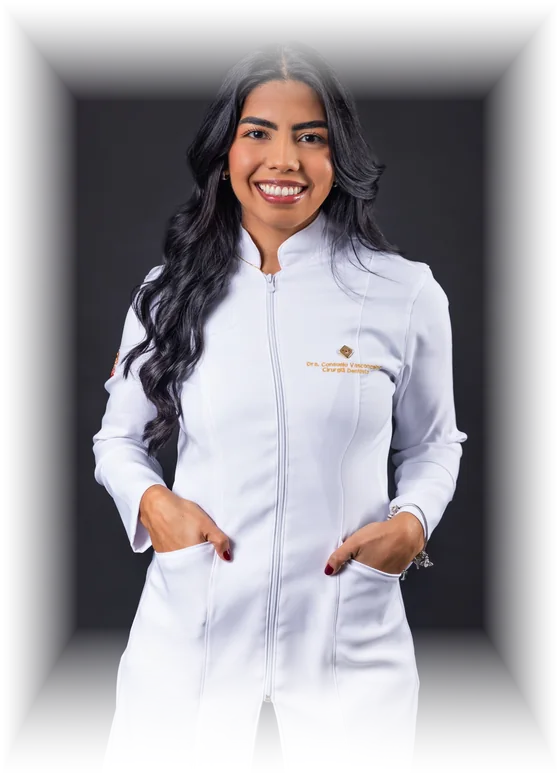
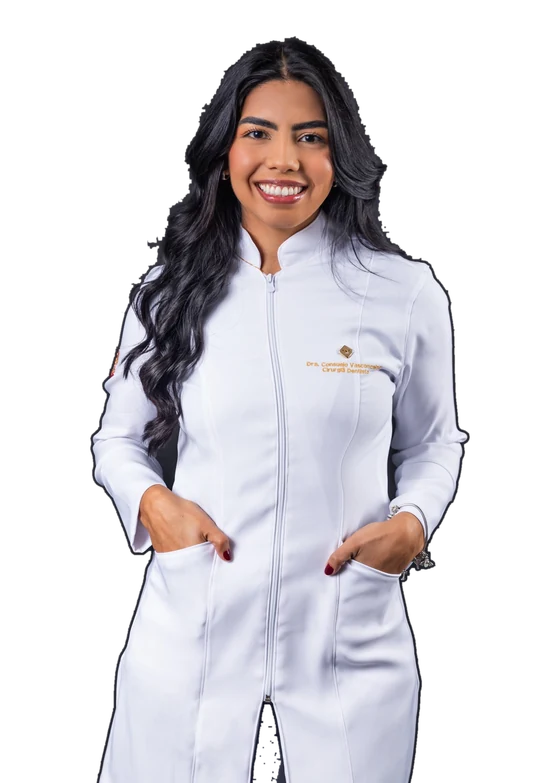
Remove o fundo dos retratos de verdade, em vez de dissolver as bordas
A versao anterior nao removia fundo: dissolvia as bordas da foto com uma rampa
de transparencia. Isso comia a barra do jaleco e as laterais da figura junto
com o fundo. Agora o fundo sai e a figura fica inteira.

O detalhe que exigiu o metodo: medi o fundo de estudio atras dos ombros em
luminancia 44, exatamente a mediana do cabelo dela (p50 = 44). Nenhum limiar de
cor, luminancia ou saturacao separa os dois. A separacao e feita por textura —
o fundo e liso (alta frequencia p99 = 2), o cabelo e feito de fios (p50 = 8,
p90 = 27). Um pixel so e fundo quando e escuro E liso, e a varredura parte das
bordas por inundacao, entao o cabelo interno, cercado pela propria figura, nunca
e alcancado mesmo sendo escuro.

O upload para a segmentacao por IA da Adobe foi tentado primeiro e falhou: o
proxy desta rede responde 403 ao endpoint de transferencia (at.adobe.com).

O recorte foi conferido sobre xadrez de alto contraste: cabelo com as mechas
preservadas, jaleco inteiro, maos e sapatos, sem buraco nem resto de fundo. As
fotos foram exportadas em qualidade 88 (antes 84), ja que agora a nitidez da
borda importa.

Um fade de 7% permanece apenas na base dos dois retratos de meio corpo, porque
a foto original termina em corte reto. Laterais e topo ficam intactos, que era
justamente o defeito anterior.

A figura de corpo inteiro saiu da chamada final. Nela a calca preta, a sombra do
chao e o fundo do estudio tem a mesma luminancia (25 contra 26) e a mesma
[…]

diff --git a/site/assets/css/style.css b/site/assets/css/style.css
@@ -1013,22 +1013,29 @@ figure:hover .moldura img{transform:scale(1.035)}
 
 /* -- 12. FOTOGRAFIA ------------------------------------------------------ */
 
-/* 12.1 Retratos sem moldura.
-   As fotos vêm do estúdio com fundo #121214 — a mesma cor de --grafite.
-   Em vez de recortar a silhueta (que sempre deixa franja no cabelo ondulado),
-   os arquivos WebP carregam canal alfa: uma elipse bem desfocada dissolve as
-   bordas e um degradê apaga a base. A figura nasce da página, sem caixa e sem
-   costura, e o efeito vale sobre qualquer fundo. */
+/* 12.1 Retratos recortados.
+   O fundo foi removido de verdade, com alfa no próprio arquivo: o fundo de
+   estúdio atrás dos ombros tem luminância 44 — a mesma mediana do cabelo —
+   então a separação foi feita por textura, não por cor (fundo liso, cabelo
+   feito de fios). Ver ferramentas/recorte.py. Nada de máscara CSS aqui: a
+   figura inteira aparece, sem borda comida. */
 .retrato{position:relative}
 .retrato img{
   width:100%;height:auto;display:block;
   transition:transform 1.2s var(--ease);
 }
-/* halo dourado discreto atrás da figura, para ela não sumir no preto */
+/* luz difusa atrás da figura, para ela não flutuar num vazio chapado */
 .retrato::before{
-  content:'';position:absolute;inset:6% 0 10%;z-index:-1;border-radius:50%;
-  background:radial-gradient(ellipse at 50% 45%,rgba(201,169,106,.09),transparent 72%);
-  filter:blur(46px);pointer-events:none;
+  content:'';position:absolute;inset:4% -4% 2%;z-index:-1;border-radius:50%;
+  background:radial-gradient(ellipse at 50% 46%,rgba(201,169,106,.13),transparent 68%);
+  filter:blur(52px);pointer-events:none;
+}
+/* A foto original é de meio corpo: sem tratamento, o jaleco termina num corte
+   reto no nada. O fade vai só nos últimos 7% da altura — laterais e topo ficam
+   intactos, que era o defeito da versão anterior. */
+.retrato--desvanece img{
+  -webkit-mask-image:linear-gradient(to bottom,#000 88%,transparent 100%);
+  mask-image:linear-gradient(to bottom,#000 88%,transparent 100%);
 }
 figure:hover .retrato img{transform:scale(1.02)}
 
@@ -1065,22 +1072,6 @@ figure:hover .retrato img{transform:scale(1.02)}
   border:1px solid var(--linha);border-radius:999px;color:rgba(255,255,255,.95);
 }
 
-/* 12.5 Corpo inteiro na chamada final */
-.chamada{
-  display:grid;grid-template-columns:minmax(0,1fr) minmax(0,.62fr);
-  gap:clamp(2rem,5vw,4rem);align-items:center;text-align:left;
-}
-.chamada__figura{position:relative}
-.chamada .secao__lead{margin-inline:0}
-
-@media (max-width:900px){
-  .clinica__grid{grid-template-columns:1fr}
-  .clinica__foto{max-width:26rem;margin-inline:auto}
-  .chamada{grid-template-columns:1fr;text-align:center}
-  .chamada .secao__lead{margin-inline:auto}
-  .chamada__figura{max-width:17rem;margin-inline:auto;order:-1}
-}
-
 /* 12.6 Antes/depois: a imagem é um espelho, mas quem chega não sabe qual
    lado é qual. Os rótulos resolvem em meio segundo de leitura. */
 .foto-enquadrada--caso{position:relative}
@@ -1102,26 +1093,11 @@ figure:hover .retrato img{transform:scale(1.02)}
   .foto-enquadrada--caso img{aspect-ratio:4/4.6}
 }
 
-/* 12.8 A chamada final: o texto é o protagonista, a figura acompanha.
-   Antes a coluna do texto ficava estreita e o título quebrava em três linhas. */
-.chamada{grid-template-columns:minmax(0,1.3fr) minmax(0,.5fr)}
-.chamada__figura img{max-height:34rem;width:auto;margin-inline:auto}
-@media (max-width:900px){
-  .chamada__figura img{max-height:22rem}
-}
-
-/* 12.9 Na chamada a figura é pequena: o halo, calculado em proporção, virava
-   uma auréola visível em volta dela. Aqui ele sai. */
-.chamada__figura .retrato::before{display:none}
-
 /* 12.10 A regra de duas colunas da 12.8 não tem media query, então vinha
    depois e vencia a de coluna única do mobile — a chamada continuava em duas
    colunas a 390px e o botão era empurrado para fora da tela. Reafirmado aqui,
    no fim da cascata. */
 @media (max-width:900px){
-  .chamada{grid-template-columns:1fr;text-align:center}
-  .chamada .secao__lead{margin-inline:auto}
-  .chamada__figura{max-width:17rem;margin-inline:auto;order:-1}
 }
 
 /* rótulos longos: em tela estreita o botão quebra em vez de estourar */

diff --git a/site/index.html b/site/index.html
@@ -117,7 +117,7 @@
     </div>
 
     <figure class="hero__foto" data-entrada data-atraso="150">
-      <div class="retrato" data-parallax="0.05">
+      <div class="retrato retrato--desvanece" data-parallax="0.05">
         <img src="assets/img/consuelo-hero-900.webp"
              srcset="assets/img/consuelo-hero-560.webp 560w,
                      assets/img/consuelo-hero-900.webp 900w,
@@ -157,7 +157,7 @@
 <section class="secao secao--grafite sobre" id="sobre">
   <div class="wrap sobre__grid">
     <figure class="sobre__foto" data-revelar>
-      <div class="retrato" data-parallax="0.04">
+      <div class="retrato retrato--desvanece" data-parallax="0.04">
         <img src="assets/img/consuelo-sobre-820.webp"
              srcset="assets/img/consuelo-sobre-520.webp 520w,
                      assets/img/consuelo-sobre-820.webp 820w,
@@ -514,30 +514,20 @@
 
 <!-- ======================= CTA + CONTATO ======================= -->
 <section class="secao secao--grafite contato" id="contato">
-  <div class="wrap contato__chamada chamada" data-revelar>
-    <div>
-      <h2 class="titulo titulo--g">Pronta para revelar <em>sua melhor versão?</em></h2>
-      <p class="secao__lead">
-        A primeira consulta é onde tudo começa. Vamos entender juntas o que seu rosto
-        e seu sorriso pedem.
-      </p>
-      <a class="btn btn--ouro btn--g" data-wa href="#">
-        Quero agendar minha avaliação
-        <svg viewBox="0 0 24 24" aria-hidden="true"><path d="M5 12h14M13 6l6 6-6 6"/></svg>
-      </a>
-    </div>
-
-    <figure class="chamada__figura">
-      <div class="retrato" data-parallax="0.03">
-        <img src="assets/img/consuelo-corpo-620.webp"
-             srcset="assets/img/consuelo-corpo-380.webp 380w,
-                     assets/img/consuelo-corpo-620.webp 620w,
-                     assets/img/consuelo-corpo-900.webp 900w"
-             sizes="(max-width:900px) 60vw, 26vw"
-             width="620" height="1516" loading="lazy"
-             alt="Dra. Consuelo Vasconcelos de corpo inteiro, em jaleco branco">
-      </div>
-    </figure>
+  <!-- Sem foto aqui de propósito: na foto de corpo inteiro a calça preta, a
+       sombra do chão e o fundo do estúdio têm a mesma luminância (25 contra 26)
+       e a mesma textura, então nenhum recorte automático os separa. Para voltar
+       a usá-la seria preciso um recorte manual. -->
+  <div class="wrap contato__chamada" data-revelar>
+    <h2 class="titulo titulo--g">Pronta para revelar <em>sua melhor versão?</em></h2>
+    <p class="secao__lead">
+      A primeira consulta é onde tudo começa. Vamos entender juntas o que seu rosto
+      e seu sorriso pedem.
+    </p>
+    <a class="btn btn--ouro btn--g" data-wa href="#">
+      Quero agendar minha avaliação
+      <svg viewBox="0 0 24 24" aria-hidden="true"><path d="M5 12h14M13 6l6 6-6 6"/></svg>
+    </a>
   </div>
 
   <div class="wrap contato__grid">

diff --git a/site/ferramentas/fotos.py b/site/ferramentas/fotos.py
@@ -2,10 +2,12 @@
 """
 Prepara as fotos do site: recorta, gera três larguras e exporta WebP.
 
-Os retratos saem com canal alfa — uma rampa de transparência em cada borda
-dissolve o retângulo da foto. Como o estúdio usou fundo #121214, a mesma cor de
---grafite, a figura nasce do fundo da página sem recorte de silhueta (que em
-cabelo ondulado sempre deixa franja).
+Os retratos entram aqui já sem fundo — passe as fotos por recorte.py antes:
+
+    python3 ferramentas/recorte.py originais/retrato-hero.jpg originais/retrato-hero.png
+
+Este roteiro só recorta o enquadramento, gera as três larguras e exporta WebP
+preservando o canal alfa.
 
 Uso, a partir de site/:   python3 ferramentas/fotos.py
 Requer:                   pip install Pillow
@@ -42,7 +44,7 @@ def mascara_bordas(w, h, esq, dir_, topo, base):
                 if px[x, y] > v: px[x, y] = v
     return m
 
-def exporta(origem, destino, caixa, larguras, fades=None, qualidade=84):
+def exporta(origem, destino, caixa, larguras, fades=None, qualidade=88):
     """caixa e fades em fração (0–1). fades=None mantém a foto opaca."""
     im = Image.open(os.path.join(ORIGEM, origem)).convert('RGBA')
     W, H = im.size
@@ -51,7 +53,7 @@ def exporta(origem, destino, caixa, larguras, fades=None, qualidade=84):
     maior = max(larguras)
     rec = rec.resize((maior, round(rec.size[1] * maior / rec.size[0])), Image.LANCZOS)
     w, h = rec.size
-    if fades:
+    if fades:  # rampa opcional, só para fotos que ainda tenham fundo
         rec.putalpha(ImageChops.multiply(rec.getchannel('A'), mascara_bordas(w, h, *fades)))
     for larg in larguras:
         alt = round(h * larg / w)
@@ -61,9 +63,9 @@ def exporta(origem, destino, caixa, larguras, fades=None, qualidade=84):
 
 # (arquivo de origem, nome de saída, recorte, larguras, fades das bordas)
 RECEITA = [
-    ('retrato-hero.jpg',  'consuelo-hero',  (0.06, 0.18,  0.94, 1.0),   [560, 900, 1300], (0.14, 0.14, 0.13, 0.20)),
-    ('retrato-sobre.jpg', 'consuelo-sobre', (0.0,  0.167, 1.0,  1.0),   [520, 820, 1200], (0.13, 0.13, 0.12, 0.18)),
-    ('retrato-corpo.jpg', 'consuelo-corpo', (0.235,0.115, 0.775,0.995), [380, 620, 900],  (0.20, 0.20, 0.20, 0.14)),
+    # os três retratos passam antes por recorte.py, que remove o fundo
+    ('retrato-hero.png',  'consuelo-hero',  (0.06, 0.18,  0.94, 1.0),   [560, 900, 1300], None),
+    ('retrato-sobre.png', 'consuelo-sobre', (0.0,  0.167, 1.0,  1.0),   [520, 820, 1200], None),
     ('clinica.jpg',       'clinica',        (0.0,  0.10,  1.0,  0.94),  [520, 820, 1200], None),
     ('caso-labial.jpg',   'caso-labial',    (0.0,  0.04,  1.0,  0.80),  [600, 900, 1300], None),
 ]

diff --git a/site/ferramentas/recorte.py b/site/ferramentas/recorte.py
@@ -1,0 +1,71 @@
+"""
+Remove o fundo de estúdio das fotos da Dra. Consuelo.
+
+O problema: o fundo iluminado atrás dos ombros tem luminância 44 — exatamente a
+mediana do cabelo dela. Nenhum limiar de cor separa os dois.
+
+A solução é textura. O fundo de estúdio é liso (alta frequência p99 = 2); o
+cabelo é feito de fios (p50 = 8, p90 = 27). Um pixel só é fundo quando é escuro
+E liso. A varredura parte das bordas por inundação, então o cabelo interno,
+cercado pela própria figura, nunca é alcançado mesmo sendo escuro.
+"""
+from PIL import Image, ImageFilter, ImageChops
+from collections import deque
+import sys, time
+
+LUM_MAX = 52     # fundo mais claro medido: 47 (atrás dos ombros)
+TEX_MAX = 3      # fundo p99 = 2; cabelo começa em 8
+SAT_MAX = 26     # fundo é cinza neutro (sat ~5); pele e jaleco têm cor
+
+def mascara_figura(im):
+    w, h = im.size
+    cinza = im.convert('L')
+    L = list(cinza.getdata())
+    tex = ImageChops.difference(cinza, cinza.filter(ImageFilter.GaussianBlur(2.5)))
+    T = list(tex.filter(ImageFilter.MaxFilter(5)).getdata())
+    S = [max(p) - min(p) for p in im.getdata()]
+
+    def ehFundo(i):
+        return L[i] <= LUM_MAX and T[i] <= TEX_MAX and S[i] <= SAT_MAX
+
+    fundo = bytearray(w * h)
+    fila = deque()
+    def semear(i):
+        if not fundo[i] and ehFundo(i):
+            fundo[i] = 1; fila.append(i)
+    for x in range(w):
+        semear(x); semear((h - 1) * w + x)
+    for y in range(h):
+        semear(y * w); semear(y * w + w - 1)
+
+    while fila:
+        i = fila.popleft()
+        x, y = i % w, i // w
+        if x > 0:     semear(i - 1)
+        if x < w - 1: semear(i + 1)
+        if y > 0:     semear(i - w)
+        if y < h - 1: semear(i + w)
+
+    a = Image.new('L', (w, h))
+    a.putdata([0 if f else 255 for f in fundo])
+    return a
+
+def refina(a):
+    a = a.filter(ImageFilter.MaxFilter(5))      # fecha furos deixados por fios
+    a = a.filter(ImageFilter.MinFilter(5))
+    a = a.filter(ImageFilter.MinFilter(3))      # 1px para dentro: come o halo do fundo
+    a = a.filter(ImageFilter.GaussianBlur(1.0)) # borda sem serrilha
+    return a
+
+def processa(origem, destino):
+    t0 = time.time()
+    im = Image.open(origem).convert('RGB')
+    a = refina(mascara_figura(im))
+    im.putalpha(a)
+    im.save(destino)
+    w, h = im.size
+    op = sum(1 for v in a.getdata() if v > 200)
+    print(f'{destino.split("/")[-1]}: {w}x{h} · figura ocupa {op/(w*h):.1%} · {time.time()-t0:.0f}s')
+
+if __name__ == '__main__':
+    processa(sys.argv[1], sys.argv[2])

diff --git a/site/README.md b/site/README.md
@@ -42,15 +42,21 @@ endereço na Hercílio Luz 642, horário de segunda a sábado 09h30–18h, cidad
 
 ### 1.2 Fotos — `assets/img/`
 
-As fotos são reais e já estão no site. Os retratos foram exportados em **WebP
-com canal alfa**: as bordas dissolvem para transparente, então a figura nasce do
-fundo da página sem moldura e sem recorte de silhueta.
+As fotos são reais e já estão no site. Os dois retratos tiveram o **fundo
+removido de verdade** e são WebP com canal alfa — a figura inteira aparece,
+sem moldura e sem borda comida.
+
+O recorte está em `ferramentas/recorte.py`. O detalhe que o torna necessário:
+o fundo de estúdio atrás dos ombros tem luminância **44** — exatamente a mediana
+do cabelo dela. Nenhum limiar de cor separa os dois. A separação é feita por
+**textura**: o fundo é liso (alta frequência p99 = 2), o cabelo é feito de fios
+(p50 = 8, p90 = 27). Um pixel só é fundo quando é escuro E liso, e a varredura
+parte das bordas por inundação, então o cabelo interno nunca é alcançado.
 
 | Arquivo | Onde aparece |
 |---|---|
 | `consuelo-hero-*.webp` | Primeira dobra |
 | `consuelo-sobre-*.webp` | "Afinal, quem sou eu?" |
-| `consuelo-corpo-*.webp` | Chamada final, antes do contato |
 | `clinica-*.webp` | Seção "A clínica" |
 | `caso-labial-*.webp` | Seção "Resultados" |
 | `og-capa.jpg` | Miniatura no WhatsApp, Instagram e Facebook |
@@ -58,9 +64,21 @@ fundo da página sem moldura e sem recorte de silhueta.
 Cada foto tem três larguras (`srcset`), então o celular baixa a menor e o
 desktop a maior.
 
-**Para trocar uma foto por outra**, o roteiro está em `ferramentas/fotos.py`:
-ele recorta, gera as três larguras, aplica a máscara de transparência nas
-bordas e exporta WebP. Rode `python3 ferramentas/fotos.py` a partir de `site/`.
+**Para trocar uma foto por outra**, a partir de `site/`:
+
+```bash
+python3 ferramentas/recorte.py originais/retrato-hero.jpg originais/retrato-hero.png
+python3 ferramentas/fotos.py
+```
+
+O primeiro remove o fundo, o segundo enquadra, gera as três larguras e exporta
+WebP preservando a transparência.
+
+> **Limite conhecido:** o recorte funciona quando o sujeito tem contraste ou
+> textura contra o fundo. Na foto de corpo inteiro ele falha — a calça preta,
+> a sombra do chão e o fundo do estúdio têm a mesma luminância (25 contra 26) e
+> a mesma textura, então saem todos juntos. Aquela foto precisa de recorte
+> manual; por isso a chamada final não usa imagem.
 
 > **Seção "Resultados":** a imagem é de uma paciente. Ela só pode ficar no ar
 > com **termo de autorização de uso de imagem assinado** — é exigência do
